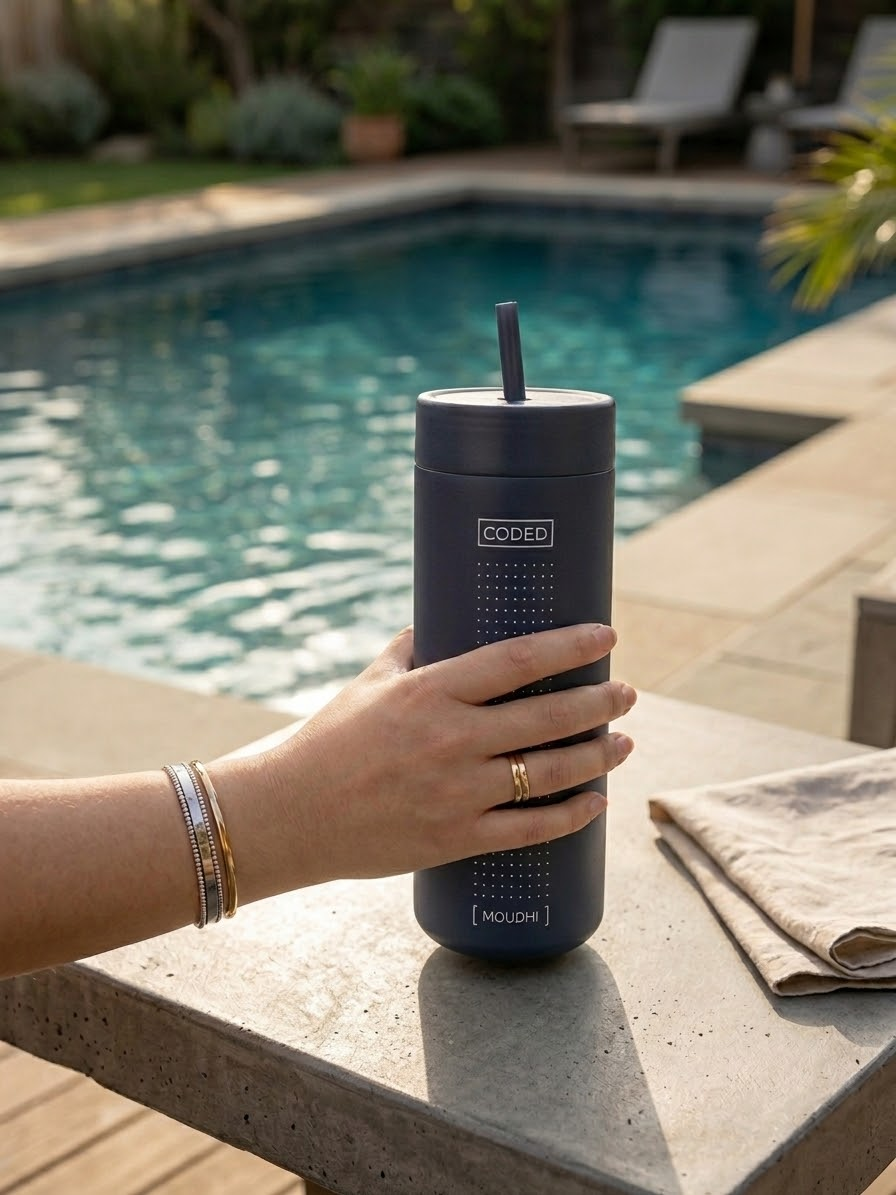
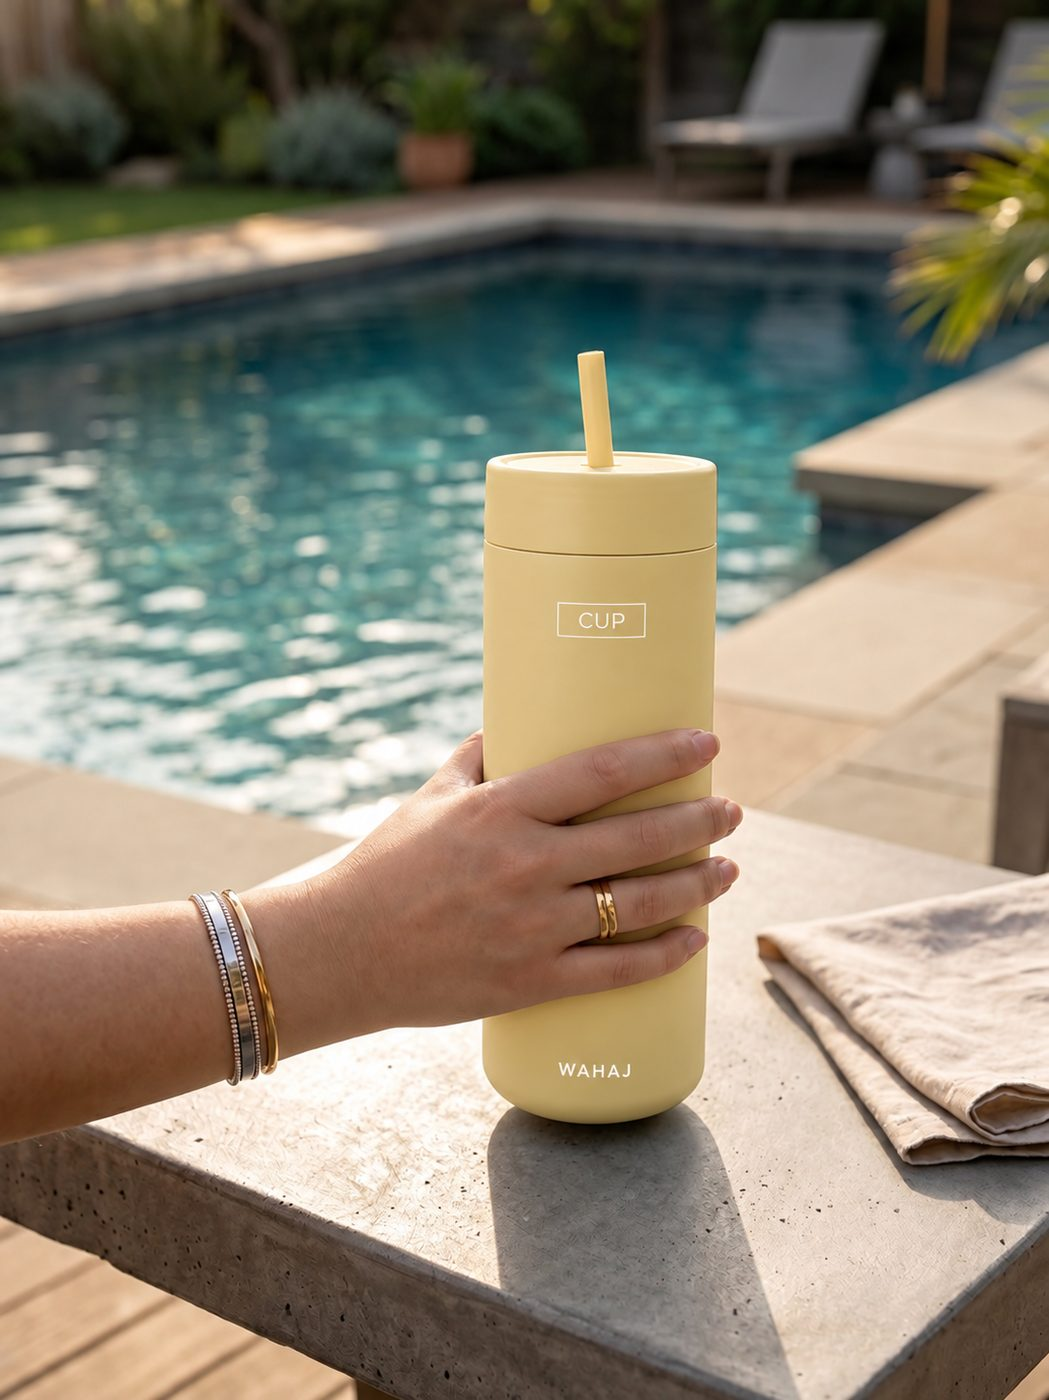
the real photographs, and Sign in is Log in
The five product shots are the supplied ones now, not the navy stand-ins:
AHMAD in a majlis, MAJED on a balcony over Dubai, WAHAJ poolside, ASMAA at
pilates, and the plain CUP shot against white for the object frame. Each is a
different colourway with a different name cut into it, which is the whole
positioning demonstrated without a word of copy — and it only works with
these particular files, which is why the placeholders were wrong.

They arrived as PNGs between 1.5 and 3.3 MB. Five of those on one page is not
a home page, it is a download, so each is resized to 1400px on the long edge
and saved as a progressive JPEG at q82: 13.8 MB down to 666 KB, and no
visible difference at the size any of them is displayed. The whole image
directory is now 1.6 MB.

The alt text is rewritten to describe what is actually in each photograph,
down to the name on the cup, and the README no longer carries the table of
what still needed replacing.

Sign in is Log in — the label, the tab, the button, the page title and the
heading, with Sign out following it to Log out. The Arabic was already دخول
and خروج and is untouched: it was never the English word. Logging in still
asks for an email and a password and nothing else; the name, phone and area
belong to Create account and appear only there.

diff --git a/assets/js/experience.js b/assets/js/experience.js
@@ -1019,43 +1019,35 @@ window.CUP_EXPERIENCE = {
 
      The captions are written as messages rather than as marketing, because
      that is the register the photographs are already in: somebody's hand,
-     somebody's evening, somebody's name on the cup.
-
-     ⚠ TWO OF THESE FOUR FILES ARE PLACEHOLDERS. `quest-poolside.jpg` and
-     `quest-pilates.jpg` are the right scenes in the wrong colourway — navy,
-     where the real shots are Butter Yellow and Baby Pink. `quest-majlis.jpg`
-     and `quest-balcony.jpg` are not the right scenes at all; they are the
-     café and the desk standing in until the majlis and the Dubai balcony
-     shots are dropped in. Overwrite the four files at those exact paths, and
-     correct the alt text below to match what each photograph actually shows.
-     The alt is written for the placeholders that are there NOW, because alt
-     that describes a picture the page is not showing is worse than none. */
+     somebody's evening, somebody's name on the cup. Each one is a different
+     colourway with a different name cut into it, which is the whole
+     positioning demonstrated without a word of copy. */
   "quests": [
     {
       "src": "assets/img/quest-majlis.jpg",
-      "altEn": "The cup on a café table in the sun, filled with iced coffee, its lid beside it",
-      "altAr": "الكوب على طاولة كافيه بالشمس، وفيه قهوة مثلجة، وغطاه جنبه",
+      "altEn": "The brown cup held in a majlis, engraved AHMAD, a television and lit shelves of dallah pots behind it",
+      "altAr": "الكوب البني بيد في ديوانية، محفور عليه AHMAD، وخلفه تلفزيون ورفوف دلال مضويّة",
       "capEn": "the diwaniya starts at nine. brought my own.",
       "capAr": "الدوانية تبدأ التسعة. جبت كوبي وياي."
     },
     {
       "src": "assets/img/quest-balcony.jpg",
-      "altEn": "The cup held at a desk, two screens of code behind it",
-      "altAr": "الكوب بيد على مكتب، وخلفه شاشتين كود",
+      "altEn": "The green cup held on a balcony at night, engraved MAJED, a laptop of code and lit towers behind it",
+      "altAr": "الكوب الأخضر بيد على بلكونة بالليل، محفور عليه MAJED، وخلفه لابتوب فيه كود وأبراج مضويّة",
       "capEn": "main quest: finish it before the sun comes up.",
       "capAr": "المهمة الأساسية: نخلّصه قبل ما تطلع الشمس."
     },
     {
       "src": "assets/img/quest-poolside.jpg",
-      "altEn": "The cup held on a stone table beside a swimming pool",
-      "altAr": "الكوب بيد على طاولة حجر جنب المسبح",
+      "altEn": "The Butter Yellow cup held on a stone table beside a swimming pool, engraved WAHAJ",
+      "altAr": "الكوب الأصفر بيد على طاولة حجر جنب المسبح، محفور عليه WAHAJ",
       "capEn": "side quest: do absolutely nothing, but cold.",
       "capAr": "مهمة جانبية: ما أسوي ولا شي، بس بارد."
     },
     {
       "src": "assets/img/quest-pilates.jpg",
-      "altEn": "The cup on a table in a pilates studio, full of iced matcha, its lid off",
-      "altAr": "الكوب على طاولة بستوديو بيلاتس، معبّى ماتشا مثلجة، وغطاه مشيول",
+      "altEn": "The Baby Pink cup held in a pilates studio, engraved ASMAA, full of iced matcha with its lid off beside it",
+      "altAr": "الكوب الوردي بيد في ستوديو بيلاتس، محفور عليه ASMAA، معبّى ماتشا مثلجة وغطاه جنبه",
       "capEn": "reformer at seven. the matcha made it.",
       "capAr": "بيلاتس السابعة. والماتشا نجت."
     }

diff --git a/assets/js/content.js b/assets/js/content.js
@@ -230,7 +230,7 @@ window.CUP_STRINGS = {
   'nav.home':     { en: 'Home',      ar: 'الرئيسية' },
   'nav.engrave':  { en: 'Engraving', ar: 'الحفر' },
   'nav.reserve':  { en: 'Your cup',  ar: 'كوبك' },
-  'nav.login':    { en: 'Sign in',   ar: 'دخول' },
+  'nav.login':    { en: 'Log in',    ar: 'دخول' },
   'nav.skip':     { en: 'Skip to content', ar: 'تخطَّ إلى المحتوى' },
   'nav.menu':     { en: 'Menu', ar: 'القائمة' },
 
@@ -332,8 +332,8 @@ window.CUP_STRINGS = {
 
   /* ---- auth ---- */
 
-  'auth.title': { en: 'Sign in — cup.kw', ar: 'الدخول — cup.kw' },
-  'auth.h1':    { en: 'Sign in, or make an account.', ar: 'ادخل، أو سوِّ حساب.' },
+  'auth.title': { en: 'Log in — cup.kw', ar: 'الدخول — cup.kw' },
+  'auth.h1':    { en: 'Log in, or make an account.', ar: 'ادخل، أو سوِّ حساب.' },
   'auth.lede':  { en: 'Two boxes, two buttons. Your reservation and your engraving live behind them.',
                  ar: 'خانتين وزرين. حجزك وحفرك محفوظين وراهم.' },
   'auth.email':    { en: 'Email', ar: 'الإيميل' },
@@ -352,14 +352,14 @@ window.CUP_STRINGS = {
   /* Said out loud because their design mockup had both buttons on it. A button
      that looks like it works and does not is worse than no button. */
 
-  'auth.signin':  { en: 'Sign in', ar: 'دخول' },
+  'auth.signin':  { en: 'Log in', ar: 'دخول' },
   'auth.signup':  { en: 'Create account', ar: 'حساب جديد' },
   'auth.working': { en: 'Working…', ar: 'لحظة…' },
-  'auth.signout': { en: 'Sign out', ar: 'خروج' },
+  'auth.signout': { en: 'Log out', ar: 'خروج' },
 
   'auth.err.credentials': { en: 'That email and password do not match an account. If you have not made one yet, use Create account.',
                  ar: 'الإيميل وكلمة السر ما يطابقون أي حساب. إذا ما سويت حساب، اضغط حساب جديد.' },
-  'auth.err.exists': { en: 'There is already an account on that email. Use Sign in instead.',
+  'auth.err.exists': { en: 'There is already an account on that email. Log in instead.',
                  ar: 'في حساب أصلاً على هالإيميل. اضغط دخول بدالها.' },
   'auth.err.weak': { en: 'That password is too short. Six characters at the very least.',
                  ar: 'كلمة السر قصيرة. ستة حروف على الأقل.' },

diff --git a/index.html b/index.html
@@ -69,7 +69,7 @@
        thing exactly. Small, because a specification is a footnote to a
        photograph that has already answered the question. -->
   <section class="photoframe">
-    <img src="assets/img/cup-in-hand.jpg" alt="The cup held in one hand, showing how big it is" loading="lazy" decoding="async">
+    <img src="assets/img/cup-in-hand.jpg" alt="The cup held in one hand, engraved CUP, showing how big it is" loading="lazy" decoding="async">
     <div class="photoframe__in stack" data-rise>
       <p class="micro" data-t="f.spec.label">The object</p>
       <p class="display display--2" data-t="f.spec.h">Steel, and a vacuum.</p>

diff --git a/README.md b/README.md
@@ -17,7 +17,7 @@ from disk and it works; put it on a host and it works the same way.
 | The cups | `/menu` | The whole catalogue, filtered by kind, capacity and features. |
 | One cup | `/product?id=sadu/navy` | Its capacity, what it is made of, and the way through to the engraving screen with that colour already on. |
 | Engraving | `/engrave` | Type your name in Arabic or English and watch it land on the cup. |
-| Sign in | `/login` | Email and password, or Google or Apple. Real accounts, real sessions. |
+| Log in | `/login` | Email and password, or Google or Apple. Real accounts, real sessions. |
 | Checkout | `/checkout` | Gated. An address you keep, or a gift straight to somebody else. |
 | My account | `/account` | Gated. Your details, and every order with its status and when it was placed. |
 
@@ -95,24 +95,13 @@ language, so the model is pinned left-to-right while the page around it flips.
 ## Photographs, and everything else drawn
 
 The photographs are in `assets/img/`. They earn their place: a photograph of the cup actually
-standing in a car cup holder is worth more than any cup holder that can be drawn in CSS, and
-the engraved names differing between shots demonstrates the whole positioning without a word
-of copy.
+standing in a car cup holder is worth more than any cup holder that can be drawn in CSS.
 
-**Five of them are placeholders and need replacing with the real files, at the same paths:**
-
-| Path | Should be | Standing in for now |
-|---|---|---|
-| `assets/img/cup-in-hand.jpg` | the cup in a hand, engraved `CUP` | the same shot engraved `CODED / MOUDNI` |
-| `assets/img/quest-majlis.jpg` | the brown cup in a majlis, `AHMAD` | the café shot |
-| `assets/img/quest-balcony.jpg` | the green cup on a Dubai balcony, `MAJED` | the desk shot |
-| `assets/img/quest-poolside.jpg` | the Butter Yellow cup poolside, `WAHAJ` | the same scene in navy |
-| `assets/img/quest-pilates.jpg` | the Baby Pink cup at pilates, `ASMAA` | the same scene in navy |
-
-Overwrite the file and the page picks it up. The alt text for the four quest photographs is
-in `assets/js/experience.js` under `quests`, written for the placeholders that are there
-now — **correct it when you swap the files**, because alt describing a picture the page is
-not showing is worse than no alt at all.
+Five of them carry a different colourway with a different name cut into it — AHMAD in a
+majlis, MAJED on a balcony in Dubai, WAHAJ poolside, ASMAA at pilates. That is the whole
+positioning demonstrated without a word of copy. Four of the five are the slideshow on the
+home page; their alt text and their captions are in `assets/js/experience.js` under
+`quests`.
 
 Everything else is still drawn — the 3D cup, the engraving preview, the icons, the marks, the
 stage props for the scenes that have no photograph. There is no web font, and nothing is
